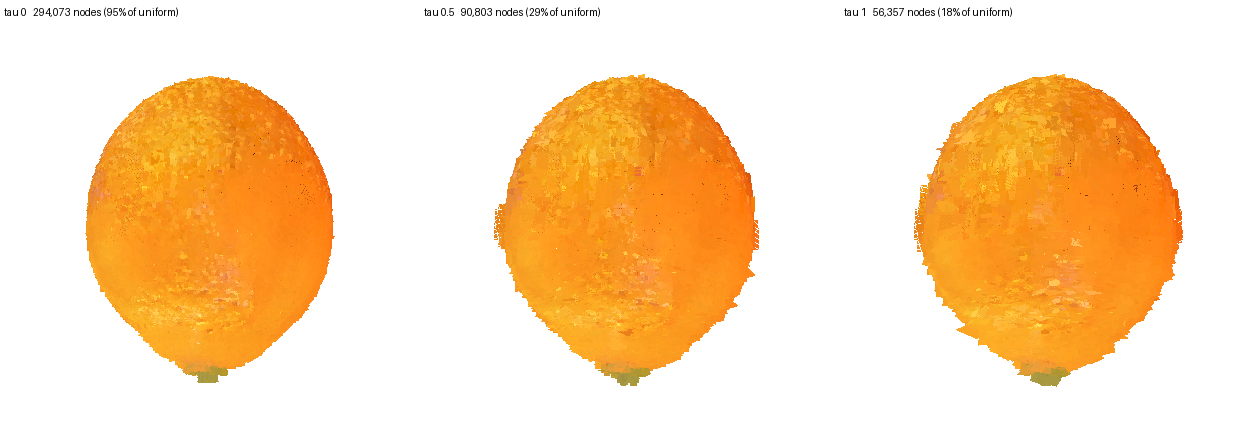
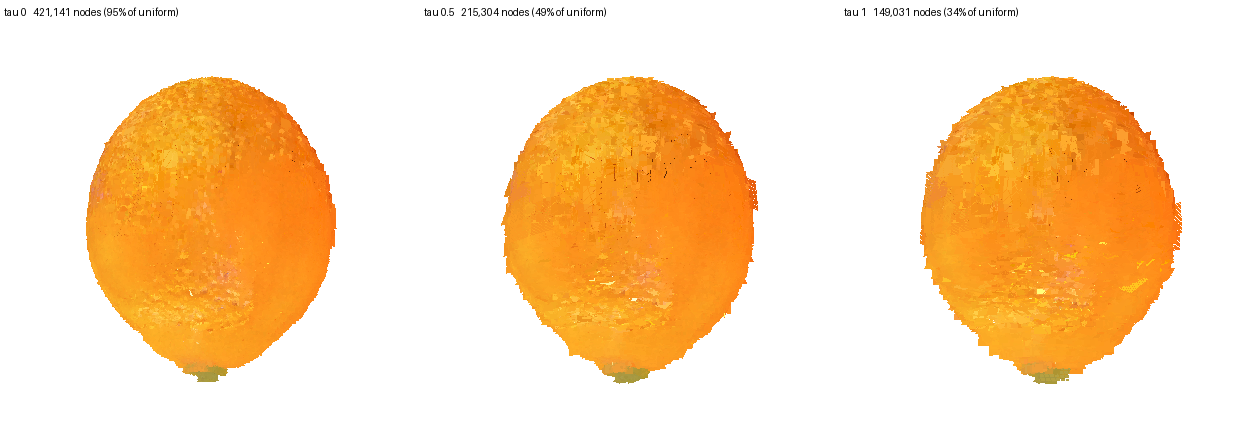
correct the collapse table, and add the adaptive meshing
The table published an hour ago was wrong in three compounding ways and the numbers are replaced,
not adjusted.

It was measured on an exterior built with a morphological pre-pass that the rest of the page does
not describe, so its uniform baseline was 308,861 nodes while the exterior section quotes 442,253
-- two different objects in two tables on one page.

The collapse double-counted its last level. When a level merges nothing the loop stops, and at
that point the level's nodes have already been kept in full; keeping them again after the loop
counted the whole surviving set twice. An identity collapse, which must return its input
untouched, returned 617,722 nodes for 442,253 inputs.

And it re-solved vertices it had no reason to touch. A node nobody merged already has a vertex,
solved by the library from Hermite data on the grid edges -- the exact crossings and the normals
there -- while the quadric rebuilt here comes from the boundary mesh's triangles, a coarser
description of the same surface. Re-solving an untouched node moved it, and the error column was
measuring that rather than the collapse.

Corrected, the identity row is exactly zero and half the nodes cost 0.07 of a cell.

New on the page: the adaptive grid meshes. A collapsed dual grid has no uniform mesh to hand back
to the library, so the faces are rebuilt by resolving each crossed fine edge's four voxels to the
nodes that survived -- adaptive dual contouring's output without its recursion, and no cracks,
[…]

diff --git a/index.html b/index.html
@@ -264,23 +264,33 @@ same thing at every resolution and on every object: \(\tau = 0.5\) is "within ha
 planes it replaces, on average".</p>
 
 <div class="tw"><table>
-<thead><tr><th>\(\tau\)</th><th>nodes</th><th>of uniform</th><th>mean error</th><th>95th</th><th>max</th></tr></thead>
+<thead><tr><th>\(\tau\)</th><th>nodes</th><th>of uniform</th><th>mean error</th><th>95th</th><th>triangles</th><th>area</th></tr></thead>
 <tbody>
-<tr><td>0.00</td><td>294,111</td><td>95.2%</td><td>0.312 \(h\)</td><td>0.787</td><td>1.193</td></tr>
-<tr><td>0.10</td><td>141,995</td><td>46.0%</td><td>0.339</td><td>0.787</td><td>1.120</td></tr>
-<tr><td>0.35</td><td>106,649</td><td>34.5%</td><td>0.347</td><td>0.787</td><td>1.754</td></tr>
-<tr><td>0.50</td><td>90,803</td><td><strong>29.4%</strong></td><td>0.356</td><td>0.787</td><td>1.715</td></tr>
-<tr><td>1.00</td><td>56,357</td><td><strong>18.2%</strong></td><td>0.446</td><td>0.841</td><td>1.548</td></tr>
+<tr><td>&minus;1 (identity)</td><td>442,253</td><td>100.0%</td><td>0.000</td><td>0.000</td><td>934,520</td><td>100.0%</td></tr>
+<tr><td>0.10</td><td>315,661</td><td>71.4%</td><td>0.024 \(h\)</td><td>0.107</td><td>&mdash;</td><td>&mdash;</td></tr>
+<tr><td>0.35</td><td>280,491</td><td>63.4%</td><td>0.036</td><td>0.363</td><td>614,129</td><td>104.2%</td></tr>
+<tr><td>0.50</td><td>215,304</td><td><strong>48.7%</strong></td><td>0.072</td><td>0.510</td><td>474,742</td><td>102.7%</td></tr>
+<tr><td>1.00</td><td>149,031</td><td><strong>33.7%</strong></td><td>0.093</td><td>0.639</td><td>326,341</td><td>101.8%</td></tr>
 </tbody></table></div>
 
-<p>The orange's exterior, against the uniform grid it replaces. The doughnut's 530,958 nodes fall
-to 197,025 at \(\tau = 0.5\) and 143,258 at \(\tau = 1.0\). The error stays under one cell
-throughout: 3.4&times; fewer nodes costs 0.04 of a cell in the mean. The uniform grid is
-\(\tau = 0\) on this curve rather than a different method.</p>
+<p>The orange's exterior, against the uniform grid it replaces; the doughnut's 530,958 nodes fall
+to 197,017 at \(\tau = 0.5\) and 143,247 at \(\tau = 1.0\). The error is how far the collapse
+moved the surface: a node nobody merged keeps the vertex the library solved for it, so the
+identity row is exactly zero rather than nearly so, and half the nodes cost 0.07 of a cell.</p>
+
+<p>The identity row is also the check that the meshing is right. An adaptive dual grid has no
+uniform mesh to hand back to the library, so the faces are rebuilt here: every crossed fine edge
+is shared by four fine voxels, each is resolved to the node that survived and contains it, and
+the four resolved nodes are the quad &mdash; degenerating to a triangle where two of them are the
+same node, which is what a collapse across an edge means. That is adaptive dual contouring's
+output without its recursion, and cracks cannot arise because neighbouring cells of different
+sizes resolve to the <em>same</em> node along their shared edge. With nothing merged it
+reproduces the library's own mesh exactly: 934,520 triangles, area 15.22346 against 15.22352, and
+the same 12,606 boundary and 41,947 non-manifold edges the library's mesh already has.</p>
 
 <figure>
   <img src="assets/qef_collapse.png" alt="The collapsed surface at three tolerances">
-  <figcaption>The same exterior at \(\tau = 0\), 0.5 and 1.0. At 29% and 18% of the nodes it is
+  <figcaption>The same exterior at \(\tau = 0\), 0.5 and 1.0. At 49% and 34% of the nodes it is
   the same orange; the rim steps visibly at \(\tau = 1.0\), which is what a coarser node is. Each
   node is drawn as the patch it stands for &mdash; a square of its own cell's size in the plane
   its quadric fitted &mdash; so a coarse region is not merely a sparser one. The residual speckle
@@ -373,8 +383,8 @@ leaf it sits in is inside some <em>other</em> leaf is circular; it never is.</di
 <ul>
   <li><strong>The exterior costs more, before the collapse.</strong> 442,253 dual-grid voxels
       replace 118,142 skin Gaussians on the orange and 850,790 replace 280,672 on the doughnut.
-      The collapse takes the first of those to 90,803 at \(\tau = 0.5\), and the quantisation is
-      available to both representations, so the comparison that matters is not yet run.</li>
+      The collapse takes the first of those to 215,304 at \(\tau = 0.5\), and the quantisation
+      is available to both representations, so the comparison that matters is not yet run.</li>
   <li><strong>The surface is faceted, and a perceptual score will say so.</strong> A dual-grid
       skin is one small planar patch per node, and CLIP or LPIPS against a photograph is exactly
       the kind of measurement that punishes that even where the geometry is right. No perceptual
